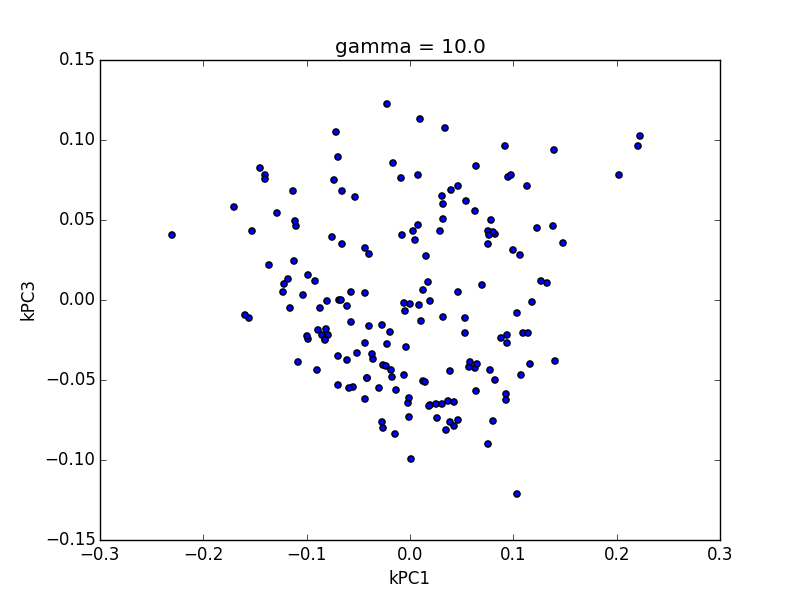
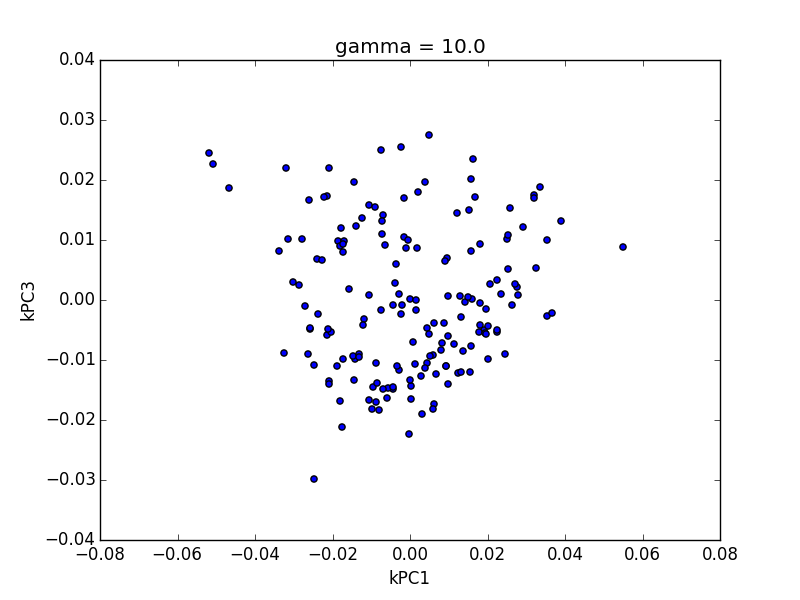
fixed weird plot bug

diff --git a/python/kpca/kpca.py b/python/kpca/kpca.py
@@ -18,7 +18,7 @@ data1 = [elem.split() for elem in lin1]
 matrix = np.array([[float(item) for item in line] for line in data1[1:]])
 
 # perform kpca
-kpca = KernelPCA(kernel="rbf", gamma=par_gamma)
+kpca = KernelPCA(kernel="linear", gamma=par_gamma)
 X_kpca = kpca.fit_transform(matrix)
 
 
@@ -64,6 +64,13 @@ plt.xlabel('kPC1')
 plt.ylabel('kPC3')
 plt.savefig('plots/kpca_plot_3_4_gamma_' + str(par_gamma) + '.png')
 
+
+
+plt.figure()
+plt.scatter(range(1, 11), kpca.lambdas_[:10]/sum(kpca.lambdas_))
+plt.xlabel('kPCA')
+plt.ylabel('variance')
+plt.show()
 
 """
 
